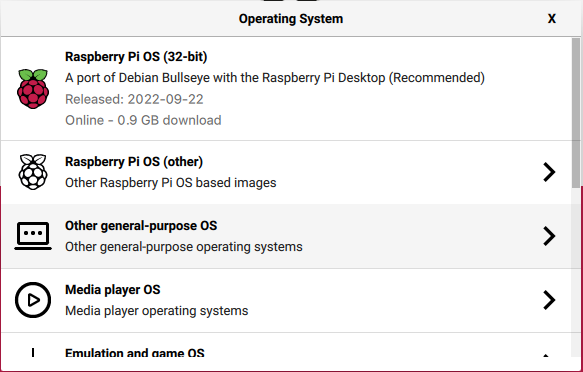
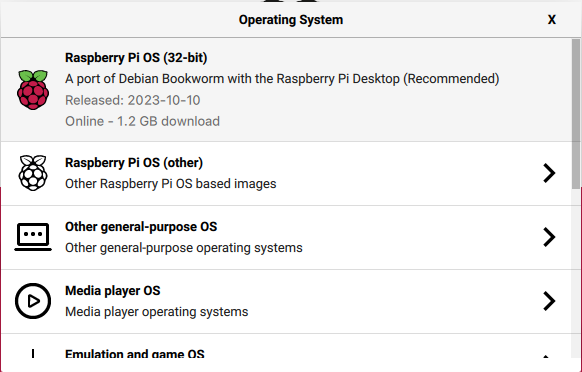
Added SnapJack installation to enable multi-room / multi-device streaming. Added other improvements to script.

diff --git a/README.md b/README.md
@@ -4,7 +4,40 @@ For more information and hardware used, see here:<br /> https://github.com/odinb
 
 Assumes 64-bit capable Raspberry Pi HW and Raspberry Pi OS that is 64-bit.
 
-Currently installs/upgrades to: NodeJS v16 and Plexamp-Linux-headless-"see version in git comment".
+Currently known issues:
+Under Debian 12 (bookworm), the audio-HAT is not detected.
+
+Debian 11 (bullseye) output:
+root@PlexAmp:~# aplay -l
+**** List of PLAYBACK Hardware Devices ****
+card 0: sndrpihifiberry [snd_rpi_hifiberry_digi], device 0: HifiBerry Digi HiFi wm8804-spdif-0 [HifiBerry Digi HiFi wm8804-spdif-0]
+  Subdevices: 1/1
+  Subdevice #0: subdevice #0
+root@PlexAmp:~#
+
+Debian 12 (bookworm):
+root@PlexAmp:~# aplay -l
+**** List of PLAYBACK Hardware Devices ****
+card 0: Headphones [bcm2835 Headphones], device 0: bcm2835 Headphones [bcm2835 Headphones]
+  Subdevices: 8/8
+  Subdevice #0: subdevice #0
+  Subdevice #1: subdevice #1
+  Subdevice #2: subdevice #2
+  Subdevice #3: subdevice #3
+  Subdevice #4: subdevice #4
+  Subdevice #5: subdevice #5
+  Subdevice #6: subdevice #6
+  Subdevice #7: subdevice #7
+card 1: vc4hdmi0 [vc4-hdmi-0], device 0: MAI PCM i2s-hifi-0 [MAI PCM i2s-hifi-0]
+  Subdevices: 1/1
+  Subdevice #0: subdevice #0
+card 2: vc4hdmi1 [vc4-hdmi-1], device 0: MAI PCM i2s-hifi-0 [MAI PCM i2s-hifi-0]
+  Subdevices: 1/1
+  Subdevice #0: subdevice #0
+root@PlexAmp:~#
+
+If you have a solution, please let me know.
+
 
 If your card is not detected after upgrade & reboot (no audio) ("aplay -l" to check), please do hard reboot, and re-select the card via web-GUI. Now there should be audio!
 
@@ -19,7 +52,7 @@ Raspberry Pi Imager is the quick and easy way to install Raspberry Pi OS and oth
 [Choose the Raspberry Pi OS (other):](https://www.raspberrypi.com/software/)
 <br /> <img src="https://github.com/odinb/bash-plexamp-installer/blob/main/Pi-imager_OS.png" width="450">
 
-[Then Raspberry Pi OS Lite (64-bit), it is important to pick this specific image:](https://www.raspberrypi.com/software/)
+[Then Raspberry Pi OS (64-bit):](https://www.raspberrypi.com/software/)
 <br /> <img src="https://github.com/odinb/bash-plexamp-installer/blob/main/Pi-imager_OS_64.png" width="450">
 
 [The advanced screen of Pi-imager:](https://www.raspberrypi.com/software/)
@@ -113,7 +146,8 @@ Go to the GUI and re-select your Audio device under Settings (cogwheel lower rig
 Q:
 My HifiBerry card (or clone) is not detected after installation and reboot with ``` aplay -l ``` command, what could be wrong?
 
-A1: Sometimes the card is not detected after upgrade, try doing a hard reboot, i.e. pull the power-cable for 10 seconds and then re-insert power to boot. Card should now be detected. If needed, go to: Settings (cogwheel lower right corner) >> Playback >> Audio output >> Audio Device and re-select your audio-card.
+A1:
+Sometimes the card is not detected after upgrade, try doing a hard reboot, i.e. pull the power-cable for 10 seconds and then re-insert power to boot. Card should now be detected. If needed, go to: Settings (cogwheel lower right corner) >> Playback >> Audio output >> Audio Device and re-select your audio-card.
 
 A2:
 On your Raspberry Pi, run the following command: ``` cat /proc/device-tree/model ```. If it says “Raspberry Pi 4 Model B Rev 1.5”, the HifiBerry card might not work as expected.
@@ -121,6 +155,36 @@ The new Pi release uses a new power management circuit that doesn’t ramp up th
 
 Note that this affects only the Digi+ Pro and Digi2 Pro (and some clones of these cards).
 
+======
+
+Q:
+My HAT-card is not recognized after installing-running the script on Raspberry Pi OS "Debian version: 12 (bookworm)".
+
+A:
+Currently it seems like the HAT-cards are not detected under "bookworm", see the following output after configuring it in /boot/config.txt:
+root@PlexAmp:~# aplay -l
+**** List of PLAYBACK Hardware Devices ****
+card 0: Headphones [bcm2835 Headphones], device 0: bcm2835 Headphones [bcm2835 Headphones]
+  Subdevices: 8/8
+  Subdevice #0: subdevice #0
+  Subdevice #1: subdevice #1
+  Subdevice #2: subdevice #2
+  Subdevice #3: subdevice #3
+  Subdevice #4: subdevice #4
+  Subdevice #5: subdevice #5
+  Subdevice #6: subdevice #6
+  Subdevice #7: subdevice #7
+card 1: vc4hdmi0 [vc4-hdmi-0], device 0: MAI PCM i2s-hifi-0 [MAI PCM i2s-hifi-0]
+  Subdevices: 1/1
+  Subdevice #0: subdevice #0
+card 2: vc4hdmi1 [vc4-hdmi-1], device 0: MAI PCM i2s-hifi-0 [MAI PCM i2s-hifi-0]
+  Subdevices: 1/1
+  Subdevice #0: subdevice #0
+root@PlexAmp:~#
+
+If you have any information on a solution, please contact me/let me know.
+
+======
 For more information:
 https://www.hifiberry.com/blog/digi2-pro-raspberry-pi-4-1-5-incompatibilities/
 https://www.hifiberry.com/blog/compatibility-issues-of-the-digi2-pro-and-raspberry-pi-4-rev-1-5/
@@ -128,3 +192,4 @@ https://forums.raspberrypi.com/viewtopic.php?t=329299
 
 
 ======
+
